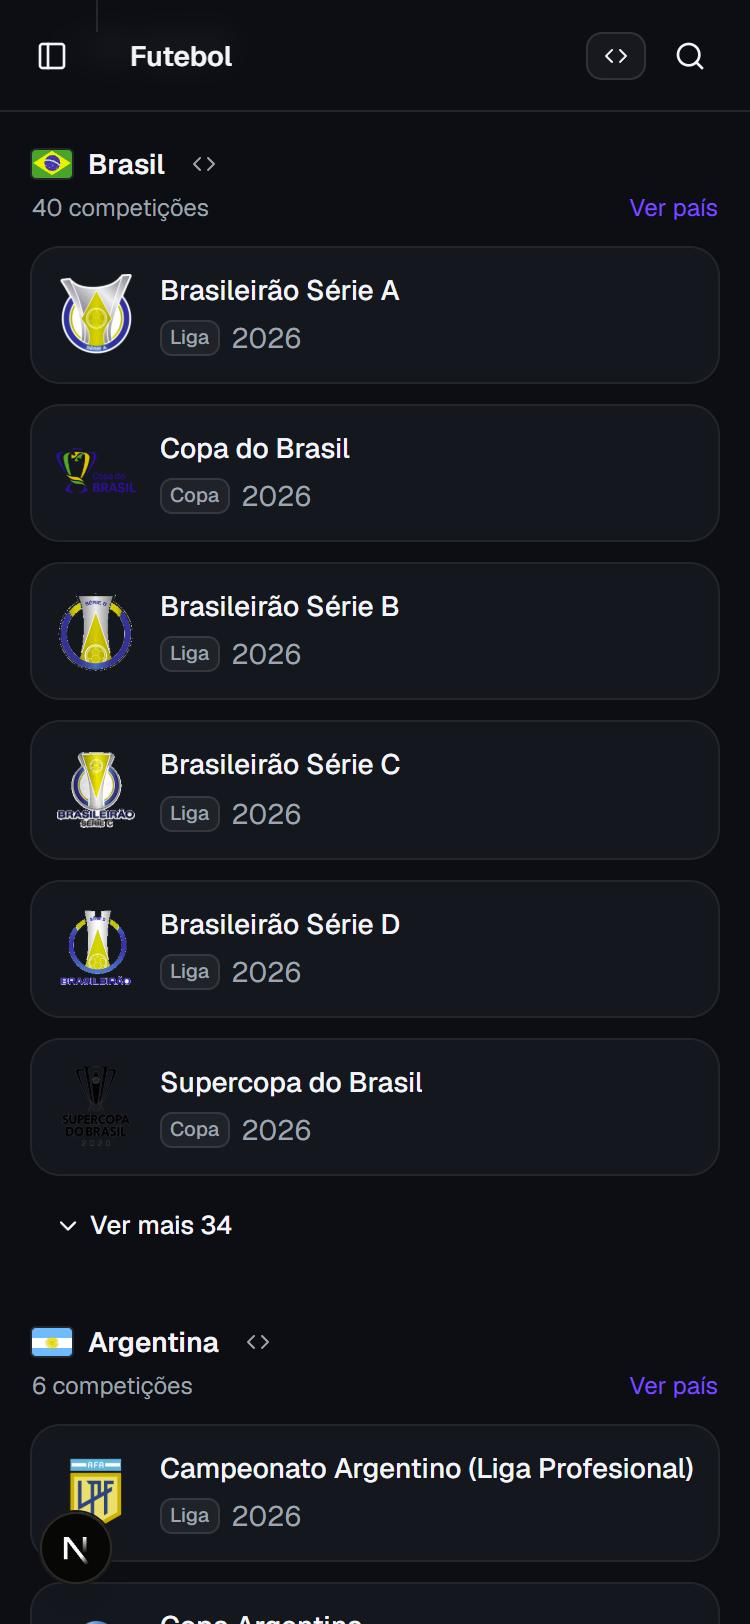
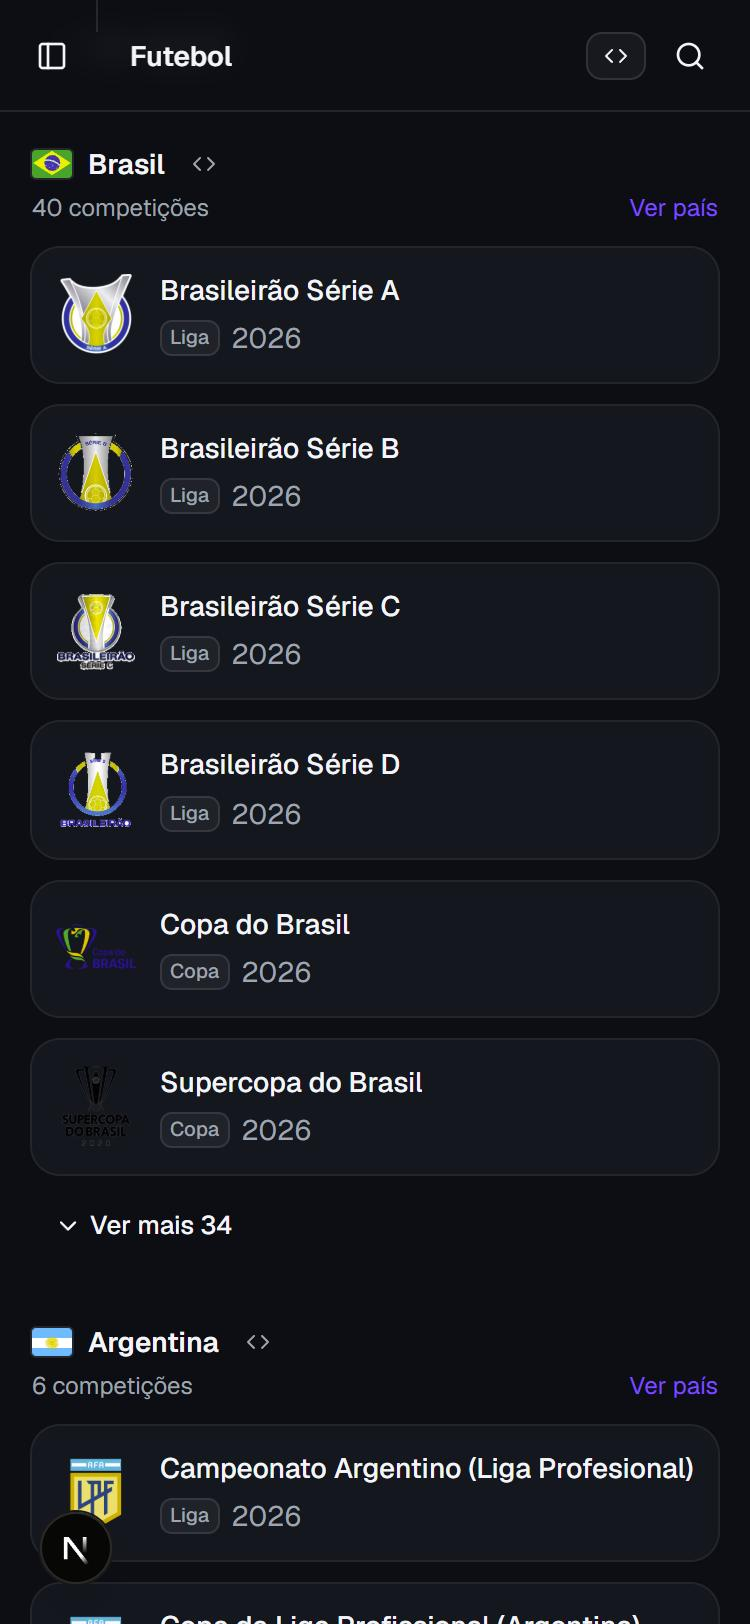
feat(geo): nacionais com as divisões em ordem e depois as copas (Série A, B, C, D, Copa do Brasil)
Decisão do Wagner para o E1: Série B, C e D (e as equivalentes de outros países) dentro de
Nacionais, em ordem de divisão, e as copas nacionais depois.

- Nas domésticas e regionais, a posição editorial (`featured` / `regional`) vem antes do tier; nas
  internacionais segue tier e ordem do arquivo de escopo.
- `featured`: Brasil com Série A, B, C, D, Copa do Brasil, Supercopa e Feminino A1; segunda divisão
  logo depois da primeira na Argentina, Uruguai, Chile, Colômbia e México.
- Testes do geo e de integração atualizados; prints e texto do item 20 com a ordem nova.

diff --git a/packages/geo/src/config.test.ts b/packages/geo/src/config.test.ts
@@ -96,20 +96,22 @@ describe('config/geo do repositório', () => {
     expect(unclassified).toEqual([]);
   });
 
-  it('nível: Série A e D nacionais (na ordem de divisão), Carioca e Copa do Nordeste regionais', () => {
+  it('nível: Série A e D nacionais (divisões antes das copas), Carioca e Copa do Nordeste regionais', () => {
     expect(geo.competitionLevel('football', 'brasileirao-serie-a', 'BR')).toBe('national');
     expect(geo.competitionLevel('football', 'brasileirao-serie-d', 'BR')).toBe('national');
     expect(geo.competitionLevel('football', 'carioca', 'BR')).toBe('regional');
     expect(geo.competitionLevel('football', 'copa-do-nordeste', 'BR')).toBe('regional');
     expect(geo.competitionLevel('football', 'conmebol-libertadores', 'WORLD')).toBeNull();
     expect(geo.competitionLevel('football', 'conmebol-libertadores', null)).toBeNull();
-    const divisions = [
+    const nationals = [
       'brasileirao-serie-a',
       'brasileirao-serie-b',
       'brasileirao-serie-c',
       'brasileirao-serie-d',
+      'copa-do-brasil',
+      'supercopa-do-brasil',
     ];
-    const order = divisions.map((slug) => geo.featuredOrder('football', slug)!);
+    const order = nationals.map((slug) => geo.featuredOrder('football', slug)!);
     expect([...order].sort((x, y) => x - y)).toEqual(order);
   });
 

diff --git a/packages/geo/src/grouping.test.ts b/packages/geo/src/grouping.test.ts
@@ -26,12 +26,12 @@ describe('groupCompetitions', () => {
     expect(out[1]!.groups).toHaveLength(1);
   });
 
-  it('ordena por tier, depois posição editorial, depois nome', () => {
+  it('domésticas: posição editorial antes do tier (divisões, depois copas), depois tier e nome', () => {
     const [football] = groupCompetitions(
       [
         c('football', 'domestic', 'Paulistão', 1),
-        c('football', 'domestic', 'Série B', 2, 2),
-        c('football', 'domestic', 'Copa do Brasil', 1, 1),
+        c('football', 'domestic', 'Série B', 2, 1),
+        c('football', 'domestic', 'Copa do Brasil', 1, 2),
         c('football', 'domestic', 'Carioca', 1),
         c('football', 'domestic', 'Brasileirão', 1, 0),
         c('football', 'domestic', 'Série C', 2),
@@ -40,10 +40,10 @@ describe('groupCompetitions', () => {
     );
     expect(football!.groups[0]!.competitions.map((x) => x.name)).toEqual([
       'Brasileirão',
+      'Série B',
       'Copa do Brasil',
       'Carioca',
       'Paulistão',
-      'Série B',
       'Série C',
     ]);
   });

diff --git a/packages/geo/src/grouping.ts b/packages/geo/src/grouping.ts
@@ -25,17 +25,20 @@ export interface SportGroups<T> {
   groups: ScopeGroup<T>[];
 }
 
-/** Ordem dentro do grupo: tier, posição editorial e nome. */
+/**
+ * Ordem dentro do grupo. Nas domésticas (nacionais e regionais), a posição editorial vem antes do tier:
+ * as divisões em ordem (Série A, B, C, D) e depois as copas nacionais, mesmo a Série B sendo tier 2 e a
+ * Copa do Brasil tier 1. Nas internacionais, tier, posição no arquivo de escopo e nome.
+ */
 export function compareCompetitions(
   a: GroupableCompetition,
   b: GroupableCompetition,
   locale = 'pt-BR',
 ): number {
-  return (
-    a.tier - b.tier ||
-    (a.order ?? Number.MAX_SAFE_INTEGER) - (b.order ?? Number.MAX_SAFE_INTEGER) ||
-    a.name.localeCompare(b.name, locale)
-  );
+  const byOrder = (a.order ?? Number.MAX_SAFE_INTEGER) - (b.order ?? Number.MAX_SAFE_INTEGER);
+  const byName = a.name.localeCompare(b.name, locale);
+  if (a.scope === 'domestic' || a.scope === 'regional') return byOrder || a.tier - b.tier || byName;
+  return a.tier - b.tier || byOrder || byName;
 }
 
 /**

diff --git a/apps/api/test/navigation.integration.test.ts b/apps/api/test/navigation.integration.test.ts
@@ -333,12 +333,12 @@ describe('GET /v1/countries/{code}/competitions', () => {
       ['world_clubs', 'Mundiais de clubes'],
       ['regional', 'Estaduais e regionais'],
     ]);
-    // nacionais em ordem de divisão (`featured`); estaduais num grupo próprio, na ordem da lista
-    // `regional` (Paulista antes do Carioca); tier 3 fica de fora
+    // nacionais: as divisões em ordem e depois as copas (`featured`, antes do tier); estaduais num grupo
+    // próprio, na ordem da lista `regional` (Paulista antes do Carioca); tier 3 fica de fora
     expect(slugsOf(body, 'football', 'domestic')).toEqual([
       'brasileirao-serie-a',
-      'copa-do-brasil',
       'brasileirao-serie-b',
+      'copa-do-brasil',
     ]);
     expect(slugsOf(body, 'football', 'regional')).toEqual(['paulista-a1', 'carioca']);
     expect(slugsOf(body, 'football', 'continental_clubs')).toEqual([

diff --git a/packages/geo/src/schema.ts b/packages/geo/src/schema.ts
@@ -84,7 +84,10 @@ export const ScopeFile = z.strictObject({
     z.strictObject({
       competitions: z.array(ScopeEntry).default([]),
       excluded: z.array(Slug).default([]),
-      /** Domésticas em destaque: vêm primeiro no grupo do país (dentro do mesmo tier), nesta ordem. */
+      /**
+       * Domésticas nacionais em destaque: vêm primeiro no grupo do país, nesta ordem e antes do tier (as
+       * divisões em ordem, depois as copas nacionais). A primeira de cada país é a liga principal.
+       */
       featured: z.array(Slug).default([]),
       /**
        * Domésticas estaduais ou regionais (Carioca, Copa do Nordeste): grupo próprio na página do país,

diff --git a/docs/ux/navegacao-avaliacao.md b/docs/ux/navegacao-avaliacao.md
@@ -264,15 +264,15 @@ Os épicos do backlog de navegação, um PR cada. A ordem e as decisões de prod
 
 | Antes (celular) | Depois (celular) |
 | --- | --- |
-| ![Antes: 40 nacionais misturadas](img/antes-celular-pais-nacionais.jpg) | ![Depois: 7 nacionais em ordem de divisão](img/depois-celular-pais-nacionais.jpg) |
+| ![Antes: 40 nacionais misturadas](img/antes-celular-pais-nacionais.jpg) | ![Depois: divisões em ordem e depois as copas](img/depois-celular-pais-nacionais.jpg) |
 
-**Decisão de produto:** as divisões de acesso (Série B, C e D) ficam **junto das nacionais**, em ordem de divisão. Os estaduais e as copas regionais vão para um grupo próprio, no fim.
+**Decisão de produto:** as divisões de acesso (Série B, C e D, e as equivalentes de outros países) ficam **junto das nacionais**, em ordem de divisão: Série A, B, C, D e depois as copas nacionais. Os estaduais e as copas regionais vão para um grupo próprio, no fim.
 
 **Correção:**
 
 - **Configuração:** uma lista `regional` por esporte em `config/geo/competition-scope.yaml`, ao lado do `featured`. No Brasil, os 27 estaduais, o Paulistão A2 e as copas regionais (Nordeste, Verde, Norte, Sul-Sudeste, Centro-Oeste). Os grandes estaduais vêm primeiro.
 - **API:**
-  - Na página do país (`/v1/countries/{code}/competitions`), o novo escopo `regional` vira o grupo "Estaduais e regionais". O grupo doméstico fica só com as nacionais, na ordem do `featured`: Série A, Copa do Brasil, Série B, C, D, Supercopa e Feminino A1.
+  - Na página do país (`/v1/countries/{code}/competitions`), o novo escopo `regional` vira o grupo "Estaduais e regionais". O grupo doméstico fica só com as nacionais, na ordem do `featured`, que agora vem antes do tier: Série A, B, C, D, Copa do Brasil, Supercopa e Feminino A1. Na Argentina, Uruguai, Chile, Colômbia e México, a segunda divisão entra logo depois da primeira.
   - O catálogo (`/v1/competitions` e o detalhe) ganha `level` (`national`, `regional` ou `null` nas internacionais) e `order` (posição editorial no país). Os dois campos são aditivos.
 - **Demo:**
   - Na página do país, a ordem dos grupos fica Nacionais → Copas continentais → Mundiais → Seleção → Estaduais e regionais.
